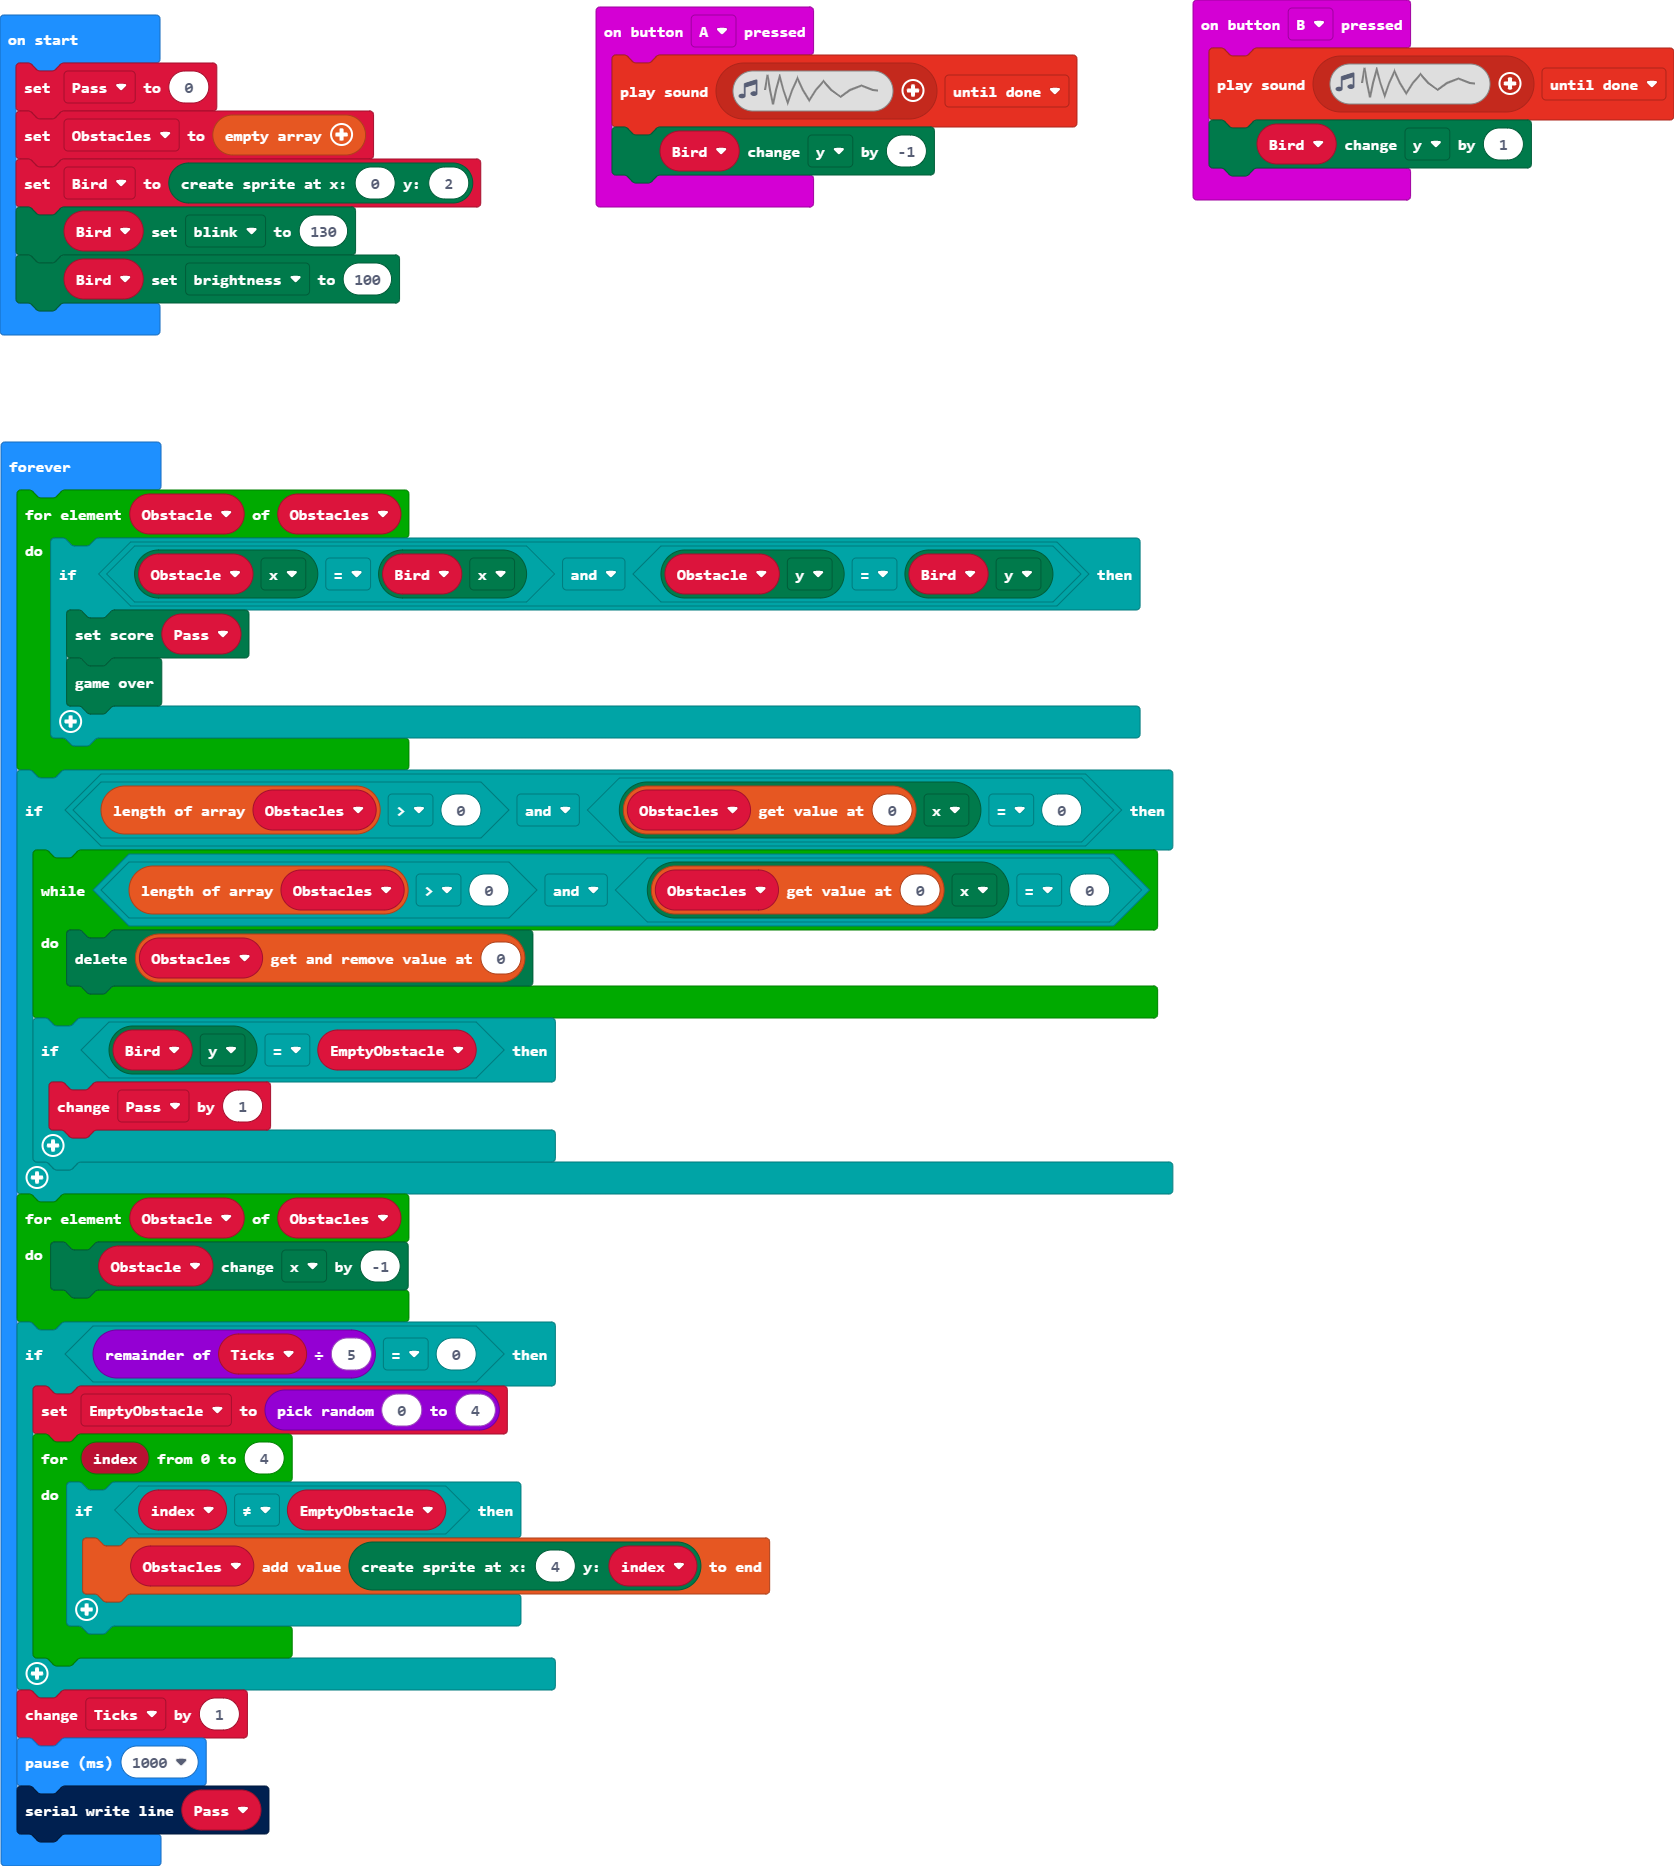
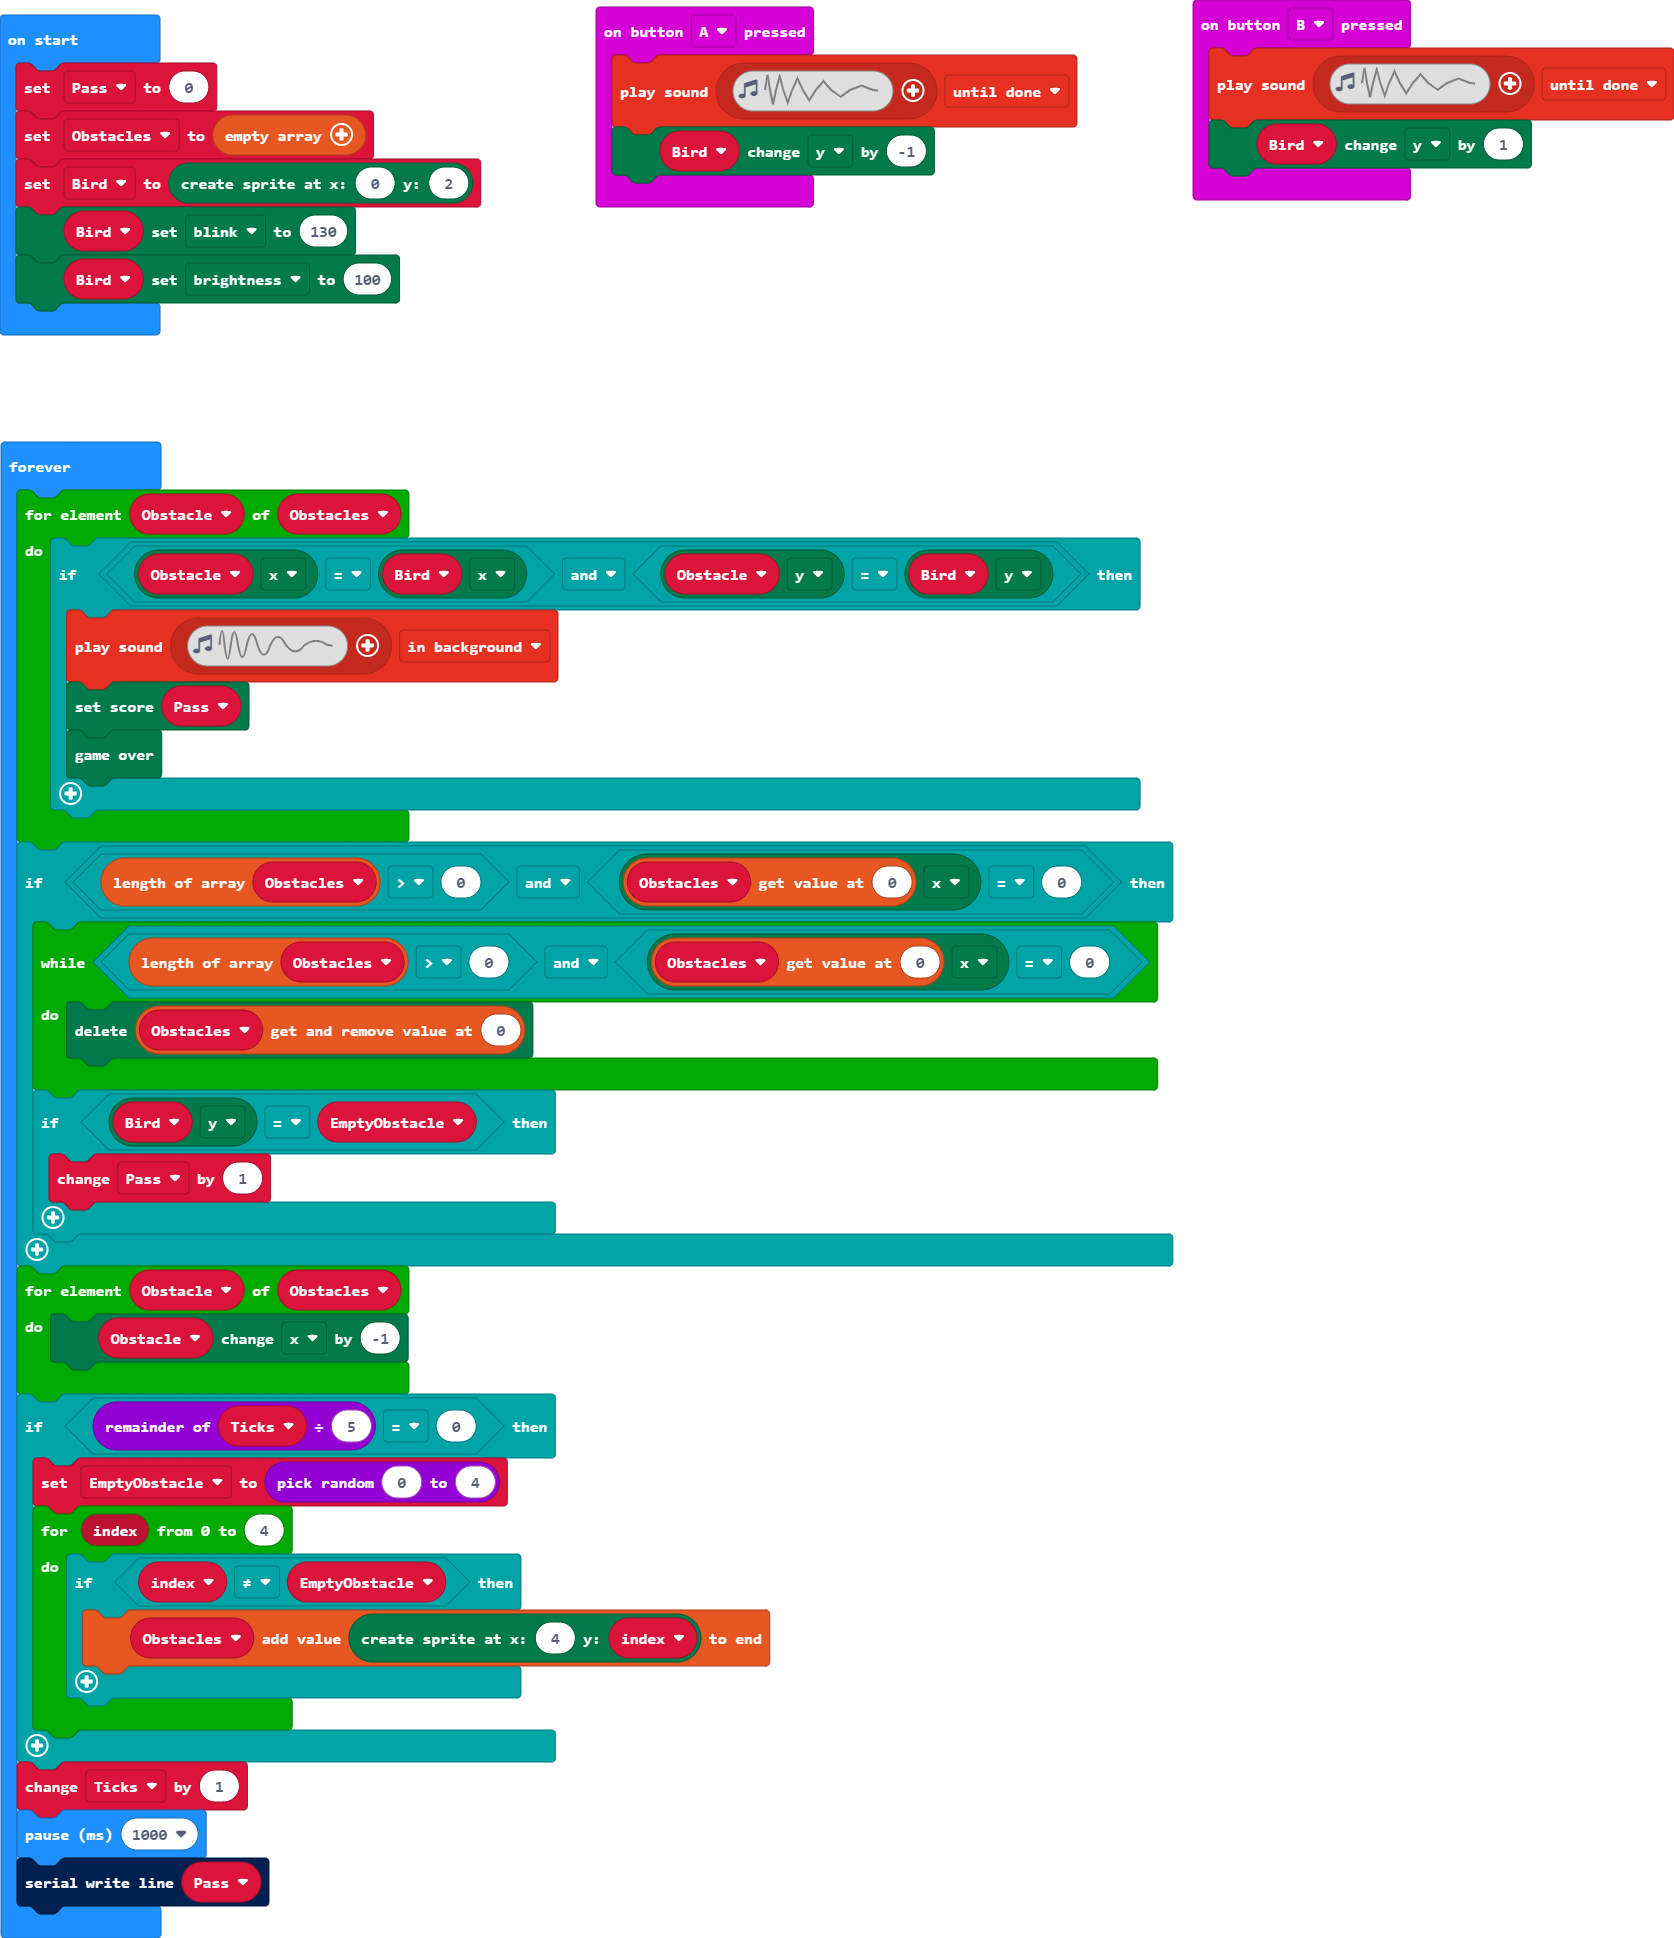
music

diff --git a/main.ts b/main.ts
@@ -17,6 +17,7 @@ Bird.set(LedSpriteProperty.Brightness, 100)
 basic.forever(function () {
     for (let Obstacle of Obstacles) {
         if (Obstacle.get(LedSpriteProperty.X) == Bird.get(LedSpriteProperty.X) && Obstacle.get(LedSpriteProperty.Y) == Bird.get(LedSpriteProperty.Y)) {
+            music.playSoundEffect(music.createSoundEffect(WaveShape.Sine, 5000, 0, 255, 0, 2000, SoundExpressionEffect.None, InterpolationCurve.Linear), SoundExpressionPlayMode.InBackground)
             game.setScore(Pass)
             game.gameOver()
         }
